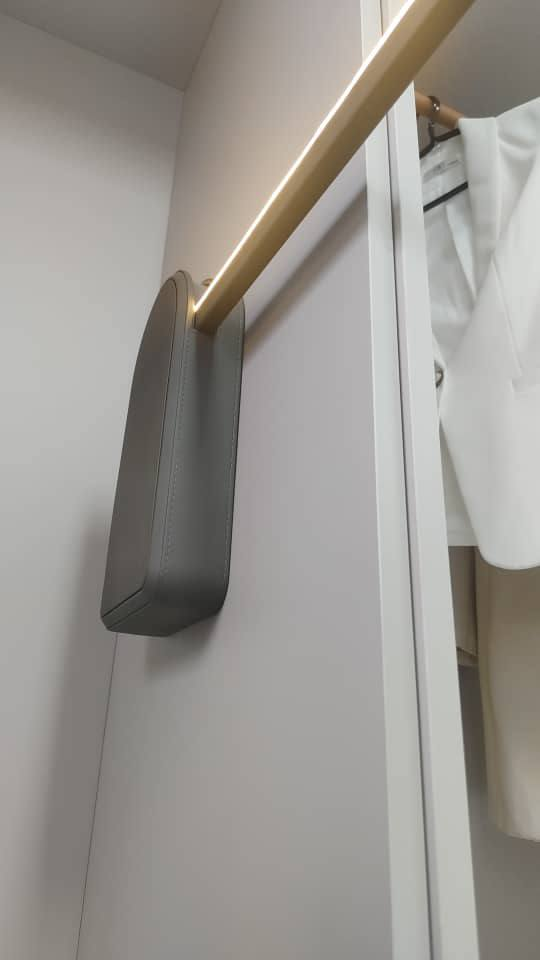
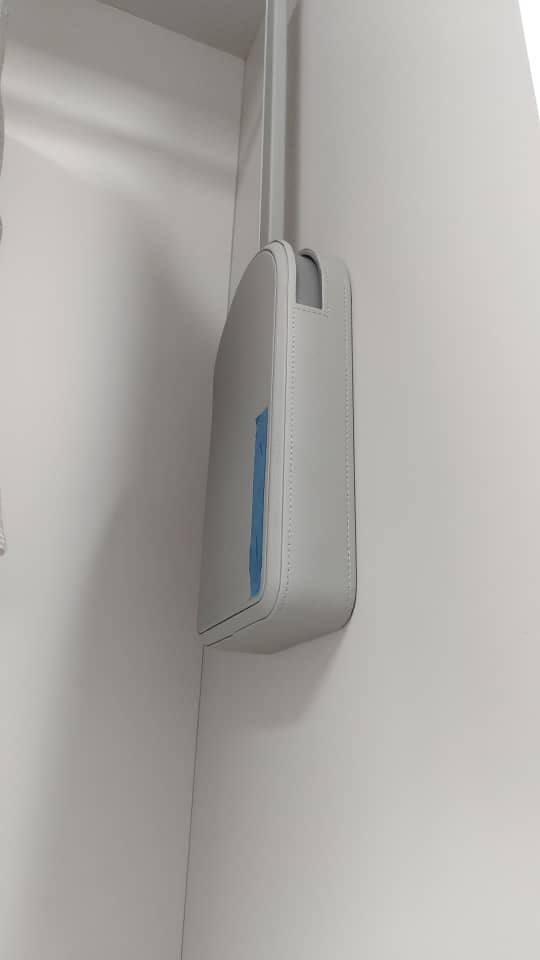
final2

diff --git a/index.html b/index.html
@@ -331,7 +331,7 @@
                             
                             <div class="review-product-info">
                                 <span class="product-tag">Пантограф Deluxe</span>
-                                <span class="product-color">Цвет: Белый глянец</span>
+                                <span class="product-color">Цвет: Gray</span>
                             </div>
                         </div>
                     </div>
